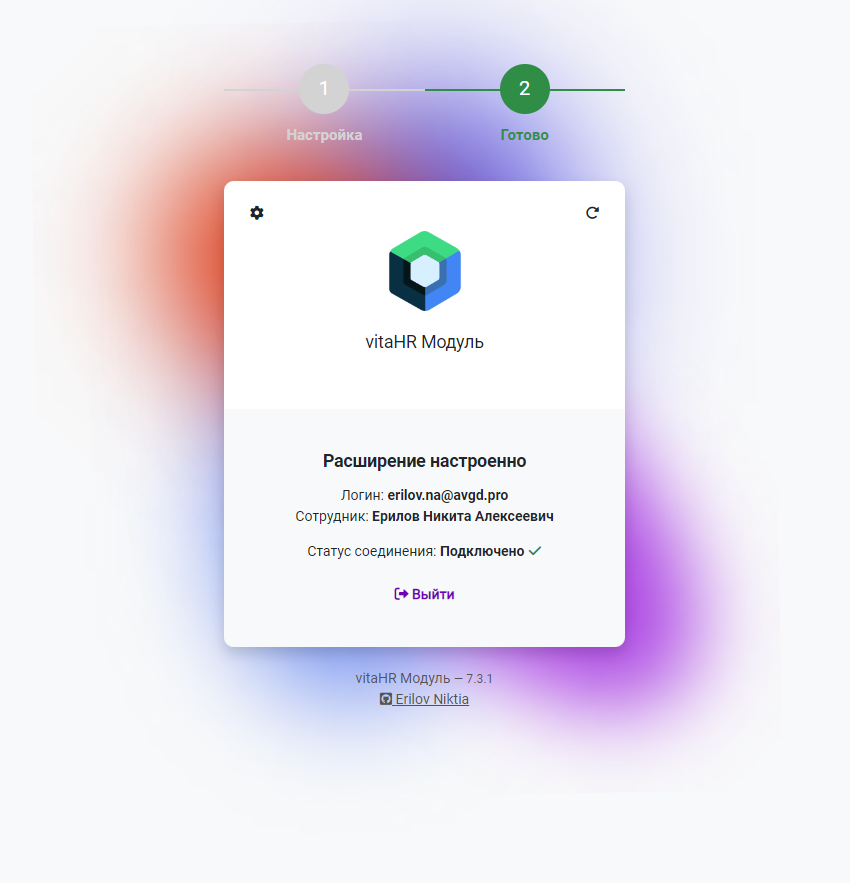
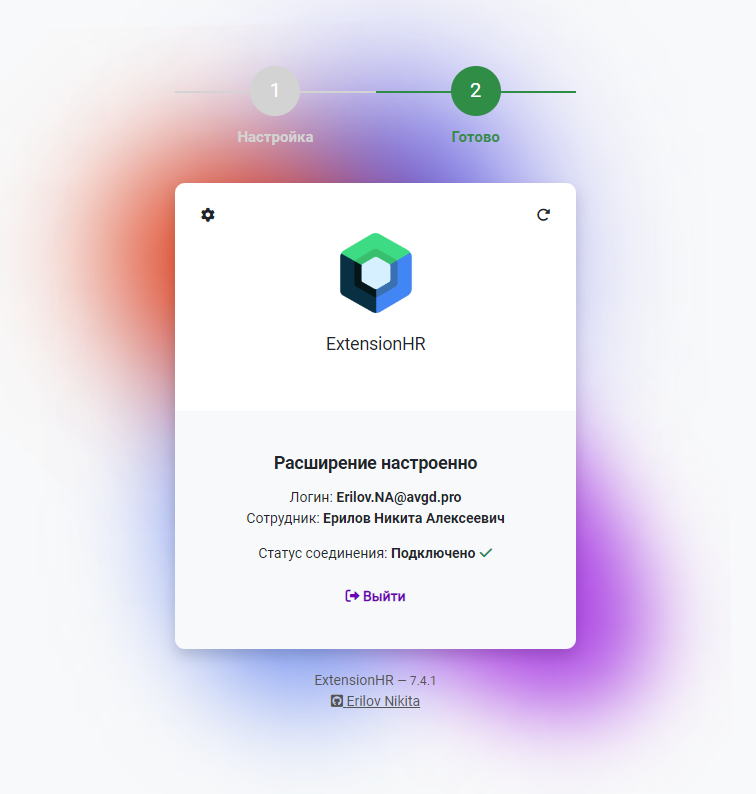
Rebranding application

Changed region(s): [[0.0608, 0.0605, 0.9127, 0.9673], [0.4259, 0.4232, 0.578, 0.4534]]

diff --git a/src/settings.html b/src/settings.html
@@ -4,7 +4,7 @@
     <meta charset="UTF-8">
     <meta http-equiv="X-UA-Compatible" content="IE=edge">
     <meta name="viewport" content="width=device-width, initial-scale=1.0">
-    <title>Настройка модуля vitaHR</title>
+    <title>Настройка модуля ExtensionHR</title>
     <link href="https://cdn.jsdelivr.net/npm/bootstrap@5.2.0/dist/css/bootstrap.min.css" rel="stylesheet" integrity="sha384-gH2yIJqKdNHPEq0n4Mqa/HGKIhSkIHeL5AyhkYV8i59U5AR6csBvApHHNl/vI1Bx" crossorigin="anonymous">
 	<link href="assets/fontawesome/css/fontawesome.css" rel="stylesheet">
     <link href="assets/fontawesome/css/brands.css" rel="stylesheet">
@@ -161,7 +161,7 @@
                 <span class="extensionName" class="fw-bolder" style="color: #545454;"></span>
                 <span id="extensionVersion" class="blockquote-footer" style="color: #545454;"></span>
             </p>
-            <a class="text-decoration" style="color: #545454" href="https://tracker.vitaexpress.ru/Erilov.NA/extensionhr">
+            <a class="text-decoration" style="color: #545454" href="https://github.com/ErilovNikita/ExtensionHR">
                 <i class="fa-brands fa-square-github"></i>
                 <span class="ms-0">Erilov Nikita</span>
             </a>

diff --git a/src/worker.js b/src/worker.js
@@ -11,11 +11,7 @@ let stopTimer = false
 let Settings = {}
 
 // Заполним дефолтные настройки
-chrome.storage.local.set({
-    "serverURL": 'help.aptekivita.ru',
-    "dotScript": 'doplkioklb',
-    "mailDog": 'cjgfrf'
-});
+chrome.storage.local.set({"serverURL": 'URL_SERVER'});
 
 //Возможные ссылки для резюме
 const arrSite = [

diff --git a/doc/install/install.md b/doc/install/install.md
@@ -9,15 +9,13 @@
 
 ## Оглавление
 * [Установка в ручном режиме](#manual)
-* [Установка в автоматическом режиме](#auto)
 * [Настройка расширения](#settings)
   
 
 <a name="manual"></a>
 
 ## Установка в ручном режиме
-> **Не рекомендованный способ установки, использовать только для разработки!**
-> Для личного использования, рекомендуется использовать данную инструкцию: [Установка в автоматическом режиме](#auto)
+> Для использования в рамках организации, рекомендуется использовать проприетарную версию и установку через магазин приложений chrome
 
 Приложение представлено в видео готового пакета для установки в браузер, ниже представлена инструкция по установке пакета из исходного кода 
 
@@ -32,23 +30,6 @@
 
 1. 🎉Готово! Теперь ваше расширение успешно установлено
 ![Инструкция по установке](/doc/install/manual_step4.png)
-
-
-<a name="auto"></a>
-
-## Установка в автоматическом режиме
-1. Перейдите по ссылке [vitaHR Модуль - Интернет-магазин chrome](https://chrome.google.com/webstore/detail/ibbbcfhmdgiamboockeeikolhmnheelj) в вашем браузере.
-Должна открыться страница расширения на сайте расширений Google 
-![Инструкция по установке](/doc/install/auto_step1.png)
-
-1. Нажмите на кнопку "Установить", и подтвердите свой выбор и дав разрешение на выполнение действий
-![Инструкция по установке](/doc/install/auto_step2.png)
-
-1. После всех действий у вас в браузере появится уведомление о том, что расширение установлено
-![Инструкция по установке](/doc/install/auto_step3.png)
-
-1. **Все!** Установка завершена! Не закрывайте окно, переходите к [настройке](#settings)
-
 
 <a name="settings"></a>
 

diff --git a/README.md b/README.md
@@ -1,20 +1,4 @@
-# vitaHR - Chromium Extension
-
-<p align="left">
-    <a href="https://tracker.vitaexpress.ru/Erilov.NA/extensionhr/-/commits/main">
-        <img alt="pipeline status" src="https://tracker.vitaexpress.ru/Erilov.NA/extensionhr/badges/main/pipeline.svg" />
-    </a>
-    <a href="https://chrome.google.com/webstore/detail/ibbbcfhmdgiamboockeeikolhmnheelj" alt="Release">
-        <img src="https://img.shields.io/chrome-web-store/v/ibbbcfhmdgiamboockeeikolhmnheelj?color=success&label=%D0%A0%D0%B5%D0%BB%D0%B8%D0%B7%D0%BD%D0%B0%D1%8F%20%D0%B2%D0%B5%D1%80%D1%81%D0%B8%D1%8F%20" />
-    </a>
-    <a href="https://chrome.google.com/webstore/detail/ibbbcfhmdgiamboockeeikolhmnheelj" alt="Downloads">
-        <img src="https://img.shields.io/chrome-web-store/users/ibbbcfhmdgiamboockeeikolhmnheelj?color=blue&label=%D0%97%D0%B0%D0%B3%D1%80%D1%83%D0%B7%D0%BE%D0%BA" />
-    </a>
-    <a href="https://chrome.google.com/webstore/detail/ibbbcfhmdgiamboockeeikolhmnheelj" alt="rating">
-        <img src="https://img.shields.io/chrome-web-store/rating/ibbbcfhmdgiamboockeeikolhmnheelj?label=%D0%A0%D0%B5%D0%B9%D1%82%D0%B8%D0%BD%D0%B3" />
-    </a>
-</p>
-
+# ExtensionHR - Chromium Extension
 ![sd](doc/header.png)
 
 
@@ -44,7 +28,7 @@
 Для удобства пользования, документация разделена на отдельные блоки, внутри которых есть свое оглавление и описание каждого из пунктов
 * [Установка и первичная настройка расширения](/doc/install/install.md)
   * [Установка в ручном режиме](/doc/install/install.md#manual)
-  * [Установка в автоматическом режиме](/doc/install/install.md#auto)
+  * [<s>Установка в автоматическом режиме</s>]() *(Не доступна при частном использовании)*
   * [Настройка расширения](/doc/install/install.md#settings)
 
 <a name="resources"></a>
@@ -55,6 +39,7 @@
 - [x] Avito
 - [x] SuperJob
 - [x] Хабр Карьера
+- [x] Naumen Service Desk
 
 
 <a name="screenshots"></a>
